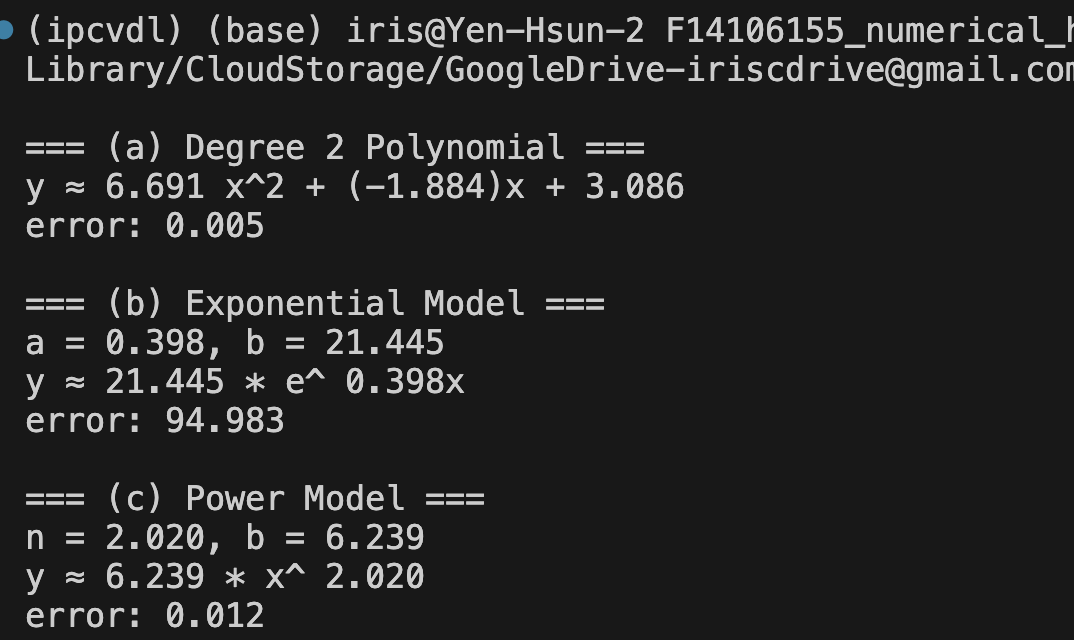
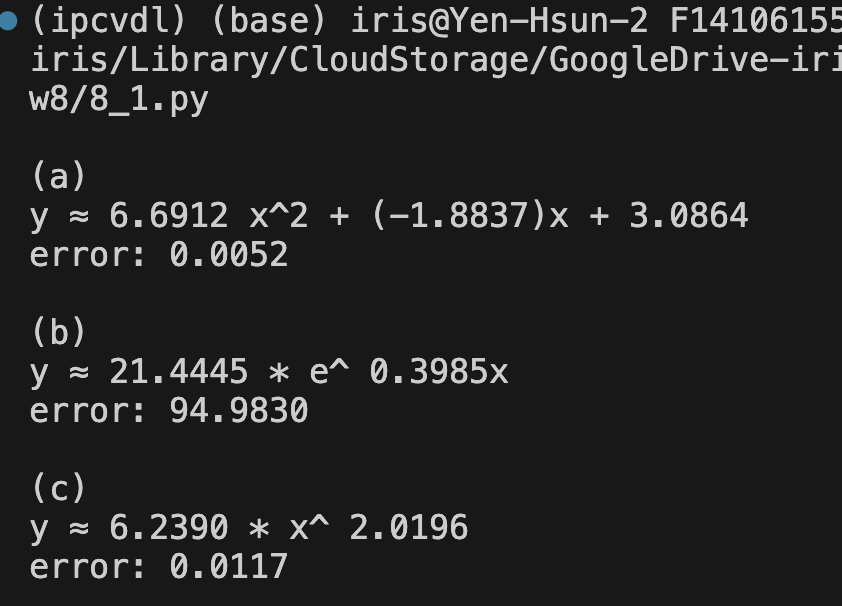
修改8_1, 8_2

diff --git a/8_2.py b/8_2.py
@@ -8,11 +8,9 @@ phi_0 = lambda x: 1
 phi_1 = lambda x: x
 phi_2 = lambda x: x**2
 
-# 內積函數 <f, g> = ∫ f(x) * g(x) dx from -1 to 1
 def inner_product(f1, f2):
     return integrate.quad(lambda x: f1(x) * f2(x), -1, 1)[0]
 
-# 計算矩陣與右邊常數項
 A = np.array([
     [inner_product(phi_0, phi_0), inner_product(phi_0, phi_1), inner_product(phi_0, phi_2)],
     [inner_product(phi_1, phi_0), inner_product(phi_1, phi_1), inner_product(phi_1, phi_2)],
@@ -25,11 +23,18 @@ b = np.array([
     inner_product(f, phi_2)
 ])
 
-# 解聯立方程式得到 a0, a1, a2
 coeffs = np.linalg.solve(A, b)
 
-# 顯示結果
+def P2(x):
+    return coeffs[0] + coeffs[1] * x + coeffs[2] * x**2
+
+def error_function(x):
+    return (f(x) - P2(x))**2
+
+sse, _ = integrate.quad(error_function, -1, 1)
+
+
 print()
-print(f"a0 = {coeffs[0]:.3f}, a1 = {coeffs[1]:.3f}, a2 = {coeffs[2]:.3f}")
-print(f"P2(x) = {coeffs[0]:.3f} + {coeffs[1]:.3f}x + ({coeffs[2]:.3f})x^2")
+print(f"P2(x) = {coeffs[0]:.5f} + {coeffs[1]:.5f}x + ({coeffs[2]:.5f})x^2")
+print(f"error = {sse:.5f}")
 print()

diff --git a/8_1.py b/8_1.py
@@ -27,17 +27,15 @@ sse_pow = np.sum((y - y_fit_pow) ** 2)
 
 # 輸出結果 
 print()
-print("=== (a) Degree 2 Polynomial ===")
-print(f"y ≈ {coeffs_deg2[0]:.3f} x^2 + ({coeffs_deg2[1]:.3f})x + {coeffs_deg2[2]:.3f}")
-print(f"error: {sse_deg2:.3f}")
+print("(a)")
+print(f"y ≈ {coeffs_deg2[0]:.4f} x^2 + ({coeffs_deg2[1]:.4f})x + {coeffs_deg2[2]:.4f}")
+print(f"error: {sse_deg2:.4f}")
 
-print("\n=== (b) Exponential Model ===")
-print(f"a = {a_exp:.3f}, b = {b_exp:.3f}")
-print(f"y ≈ {b_exp:.3f} * e^ {a_exp:.3f}x")
-print(f"error: {sse_exp:.3f}")
+print("\n(b)")
+print(f"y ≈ {b_exp:.4f} * e^ {a_exp:.4f}x")
+print(f"error: {sse_exp:.4f}")
 
-print("\n=== (c) Power Model ===")
-print(f"n = {n_pow:.3f}, b = {b_pow:.3f}")
-print(f"y ≈ {b_pow:.3f} * x^ {n_pow:.3f}")
-print(f"error: {sse_pow:.3f}")
+print("\n(c)")
+print(f"y ≈ {b_pow:.4f} * x^ {n_pow:.4f}")
+print(f"error: {sse_pow:.4f}")
 print()
